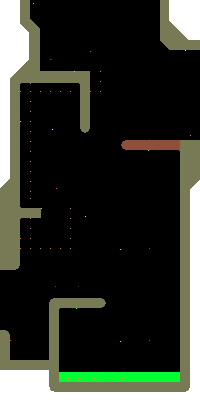
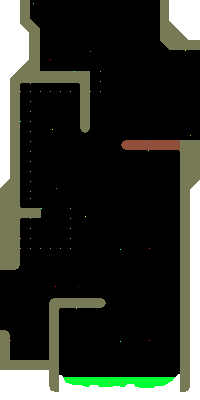
attempt to soften vault potion spawns

Changed region(s): [[0.27, 0.93, 0.9, 0.99]]

diff --git a/notes.md b/notes.md
@@ -12,7 +12,6 @@
     - diamond, water, nothing in pot
     - breaks common
   - hisi h diamond and water
-- rainforest cauldron v
 - mod description
 - remote biomes
   - spawn key
